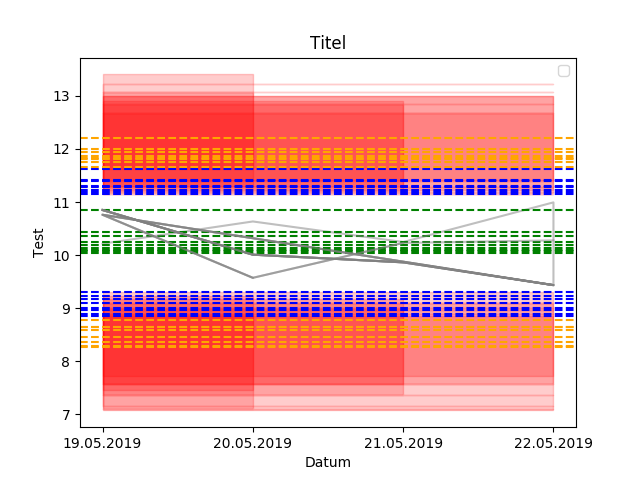
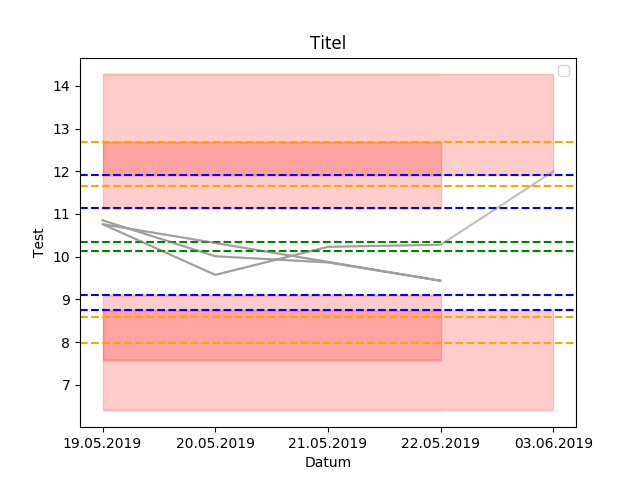
removed bugs with plot creation

diff --git a/server/app/api/qrk/resources.py b/server/app/api/qrk/resources.py
@@ -53,9 +53,9 @@ class MesswertListApi(Resource):
 
         qrk.save()
 
-        df, qrk = create_dataframe(qrk_id)
-        create_QC_Chart(qrk, df)
-        #task = celery.send_task('create_QC_Chart', (qrk_id, "./plots/"))
+        if len(qrk.messwerte) > 1:
+            df, qrk = create_dataframe(qrk_id)
+            create_QC_Chart(qrk, df)
 
         return {
             "msg": "Messpunkt wurde gespeichert."
@@ -69,10 +69,10 @@ class MesswertApi(Resource):
         messwert.update(request.json)
         db.session.commit()
 
+        if len(qrk.messwerte) > 1:
+            df, qrk = create_dataframe(qrk_id)
+            create_QC_Chart(qrk, df)
 
-        df, qrk = create_dataframe(qrk_id)
-        create_QC_Chart(qrk, df)
-        #task = celery.send_task('create_QC_Chart', (qrk_id, "./plots/"))
         return {
             "msg": "Messwert wurde modifiziert."
         }, 201
